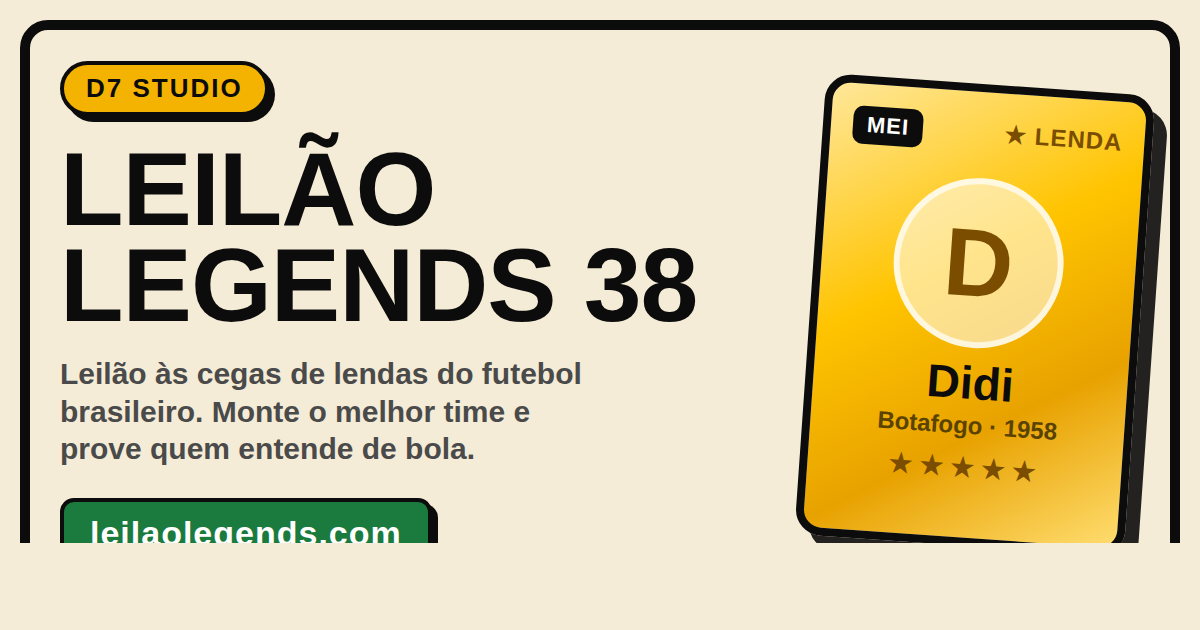
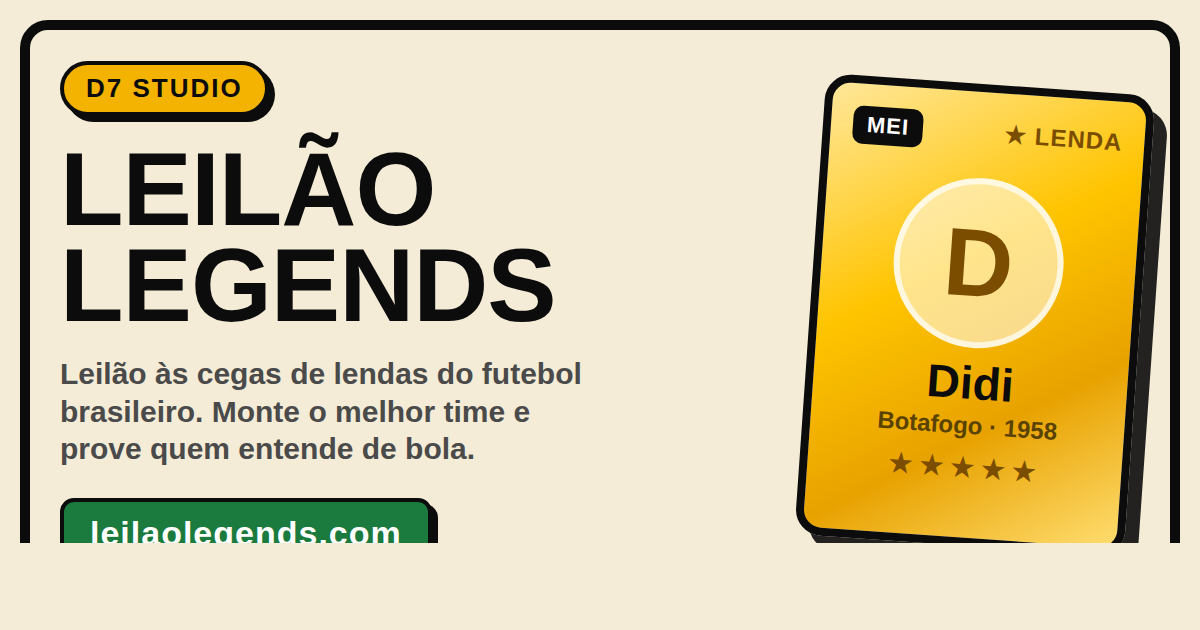
Rebrand: "Leilão Legends 38" -> "Leilão Legends" (#145)
Tira o "38" do nome/branding: imagem de prévia (og.png), meta tags
(title, og/twitter), e títulos visíveis (home, online, card de
compartilhar). Sobe ?v=3 pra atualizar a prévia nos scrapers. As menções a
"38 rodadas" no texto explicativo continuam (é o formato, não o nome).

Claude-Session: https://claude.ai/code/session_012GPrTDbpvrApA6DArkzCpE

Changed region(s): [[0.4933, 0.3921, 0.5858, 0.5127]]

diff --git a/index.html b/index.html
@@ -4,27 +4,27 @@
     <meta charset="UTF-8" />
     <link rel="icon" type="image/svg+xml" href="/favicon.svg">
     <meta name="viewport" content="width=device-width, initial-scale=1.0" />
-    <title>Leilão Legends 38</title>
+    <title>Leilão Legends</title>
     <link rel="preconnect" href="https://fonts.googleapis.com">
     <link rel="preconnect" href="https://fonts.gstatic.com" crossorigin>
     <link href="https://fonts.googleapis.com/css2?family=Oswald:wght@400;500;600;700&family=Inter:wght@400;500;600;700;800;900&display=swap" rel="stylesheet">
 
   <meta name="description" content="Leilão às cegas de lendas do futebol brasileiro. Monte o melhor time em 5 pregões cegos e dispute 38 rodadas pra provar quem entende de bola.">
 
-  <meta property="og:site_name" content="Leilão Legends 38">
-  <meta property="og:title" content="Leilão Legends 38">
+  <meta property="og:site_name" content="Leilão Legends">
+  <meta property="og:title" content="Leilão Legends">
   <meta property="og:description" content="Leilão às cegas de lendas do futebol brasileiro. Monte o melhor time e prove quem entende de bola.">
   <meta property="og:type" content="website">
   <meta property="og:url" content="https://leilaolegends.com">
-  <meta property="og:image" content="https://leilaolegends.com/og.png?v=2">
+  <meta property="og:image" content="https://leilaolegends.com/og.png?v=3">
   <meta property="og:image:width" content="1200">
   <meta property="og:image:height" content="630">
   <meta property="og:image:type" content="image/png">
 
   <meta name="twitter:card" content="summary_large_image">
-  <meta name="twitter:title" content="Leilão Legends 38">
+  <meta name="twitter:title" content="Leilão Legends">
   <meta name="twitter:description" content="Leilão às cegas de lendas do futebol brasileiro. Monte o melhor time e prove quem entende de bola.">
-  <meta name="twitter:image" content="https://leilaolegends.com/og.png?v=2">
+  <meta name="twitter:image" content="https://leilaolegends.com/og.png?v=3">
 </head>
   <body>
     <div id="root"></div>

diff --git a/src/escalacao/screens.tsx b/src/escalacao/screens.tsx
@@ -138,7 +138,7 @@ export function EscIntro() {
         <span className="inline-block border-2 border-black rounded-full px-3 py-1 text-xs font-black uppercase" style={{ backgroundColor: GOLD, boxShadow: `3px 3px 0 0 ${INK}` }}>
           D7 STUDIO
         </span>
-        <h1 className="font-black text-5xl mt-4" style={OSWALD}>LEILÃO LEGENDS 38</h1>
+        <h1 className="font-black text-5xl mt-4" style={OSWALD}>LEILÃO LEGENDS</h1>
         <p className="mt-2 font-semibold text-black/60">Leilão às cegas. Níveis ocultos. 38 rodadas pra provar quem entende de bola.</p>
       </div>
       <Box bg="#fff" className="p-5 space-y-3">
@@ -1214,7 +1214,7 @@ async function buildShareCardBlob(opts: {
   ctx.fillStyle = INK
   ctx.textAlign = 'center'
   ctx.font = '900 46px Oswald, sans-serif'
-  ctx.fillText('🔨 LEILÃO LEGENDS 38', 450, 108)
+  ctx.fillText('🔨 LEILÃO LEGENDS', 450, 108)
 
   ctx.font = '160px sans-serif'
   ctx.fillText(opts.youWon ? '🏆' : opts.youPos <= 4 ? '🥈' : opts.youPos >= 17 ? '🪦' : '⚽', 450, 400)
@@ -1246,7 +1246,7 @@ async function shareResult(opts: Parameters<typeof buildShareCardBlob>[0]) {
   const blob = await buildShareCardBlob(opts)
   if (!blob) return
   const file = new File([blob], 'leilao-legends-38.png', { type: 'image/png' })
-  const shareData = { files: [file], title: 'Leilão Legends 38', text: `${opts.youWon ? 'Fui campeão' : `Terminei em ${opts.youPos}º`} no Leilão Legends 38! 🔨` }
+  const shareData = { files: [file], title: 'Leilão Legends', text: `${opts.youWon ? 'Fui campeão' : `Terminei em ${opts.youPos}º`} no Leilão Legends! 🔨` }
   if (navigator.canShare?.(shareData)) {
     try { await navigator.share(shareData); return } catch { /* cancelou ou falhou — cai pro download */ }
   }

diff --git a/src/escalacao/lobby.tsx b/src/escalacao/lobby.tsx
@@ -372,7 +372,7 @@ export function EscLobby() {
   if (phase === 'auth') return wrap(<>
     <div className="text-center">
       <div className="text-6xl mb-2">🔨</div>
-      <h1 className="font-black text-3xl text-white" style={OSWALD}>LEILÃO LEGENDS 38 · ONLINE</h1>
+      <h1 className="font-black text-3xl text-white" style={OSWALD}>LEILÃO LEGENDS · ONLINE</h1>
     </div>
     <div className="flex border-[3px] border-black rounded-xl overflow-hidden">
       {(['login', 'register'] as AuthTab[]).map(tab => (
@@ -410,7 +410,7 @@ export function EscLobby() {
     return wrap(<>
       <div className="text-center space-y-2">
         <div className="text-6xl">🔨</div>
-        <h1 className="font-black text-3xl text-white" style={OSWALD}>LEILÃO LEGENDS 38</h1>
+        <h1 className="font-black text-3xl text-white" style={OSWALD}>LEILÃO LEGENDS</h1>
         {editingName ? (
           <div className="flex gap-2 items-stretch max-w-xs mx-auto">
             <input autoFocus value={nameDraft} onChange={e => setNameDraft(e.target.value)} maxLength={20}